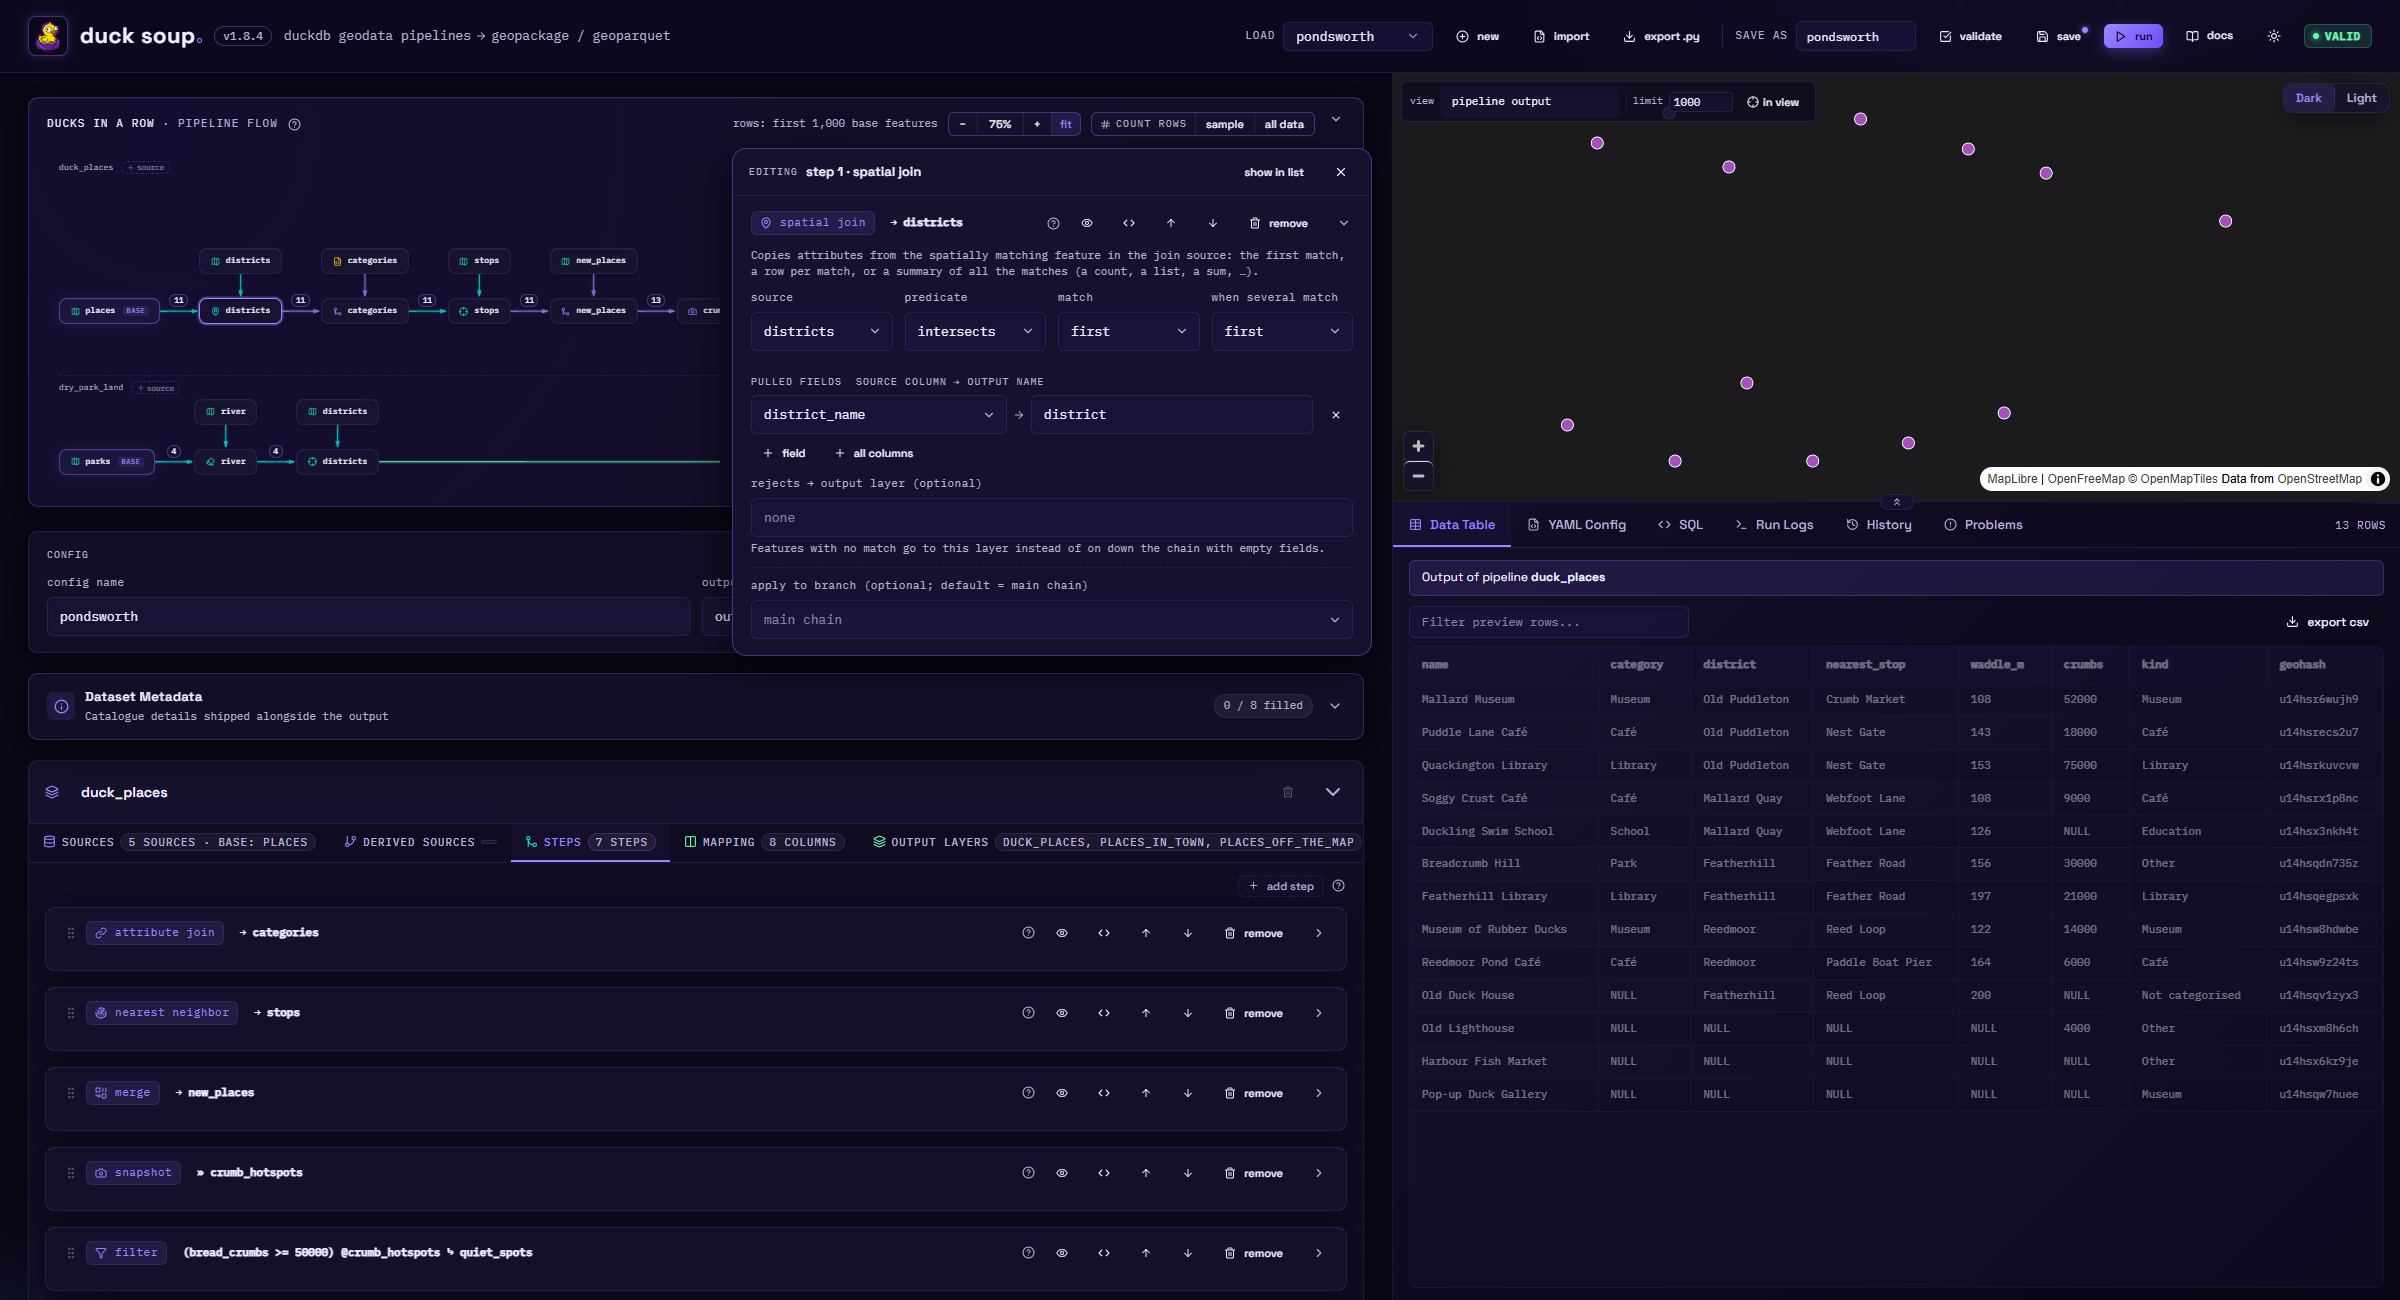
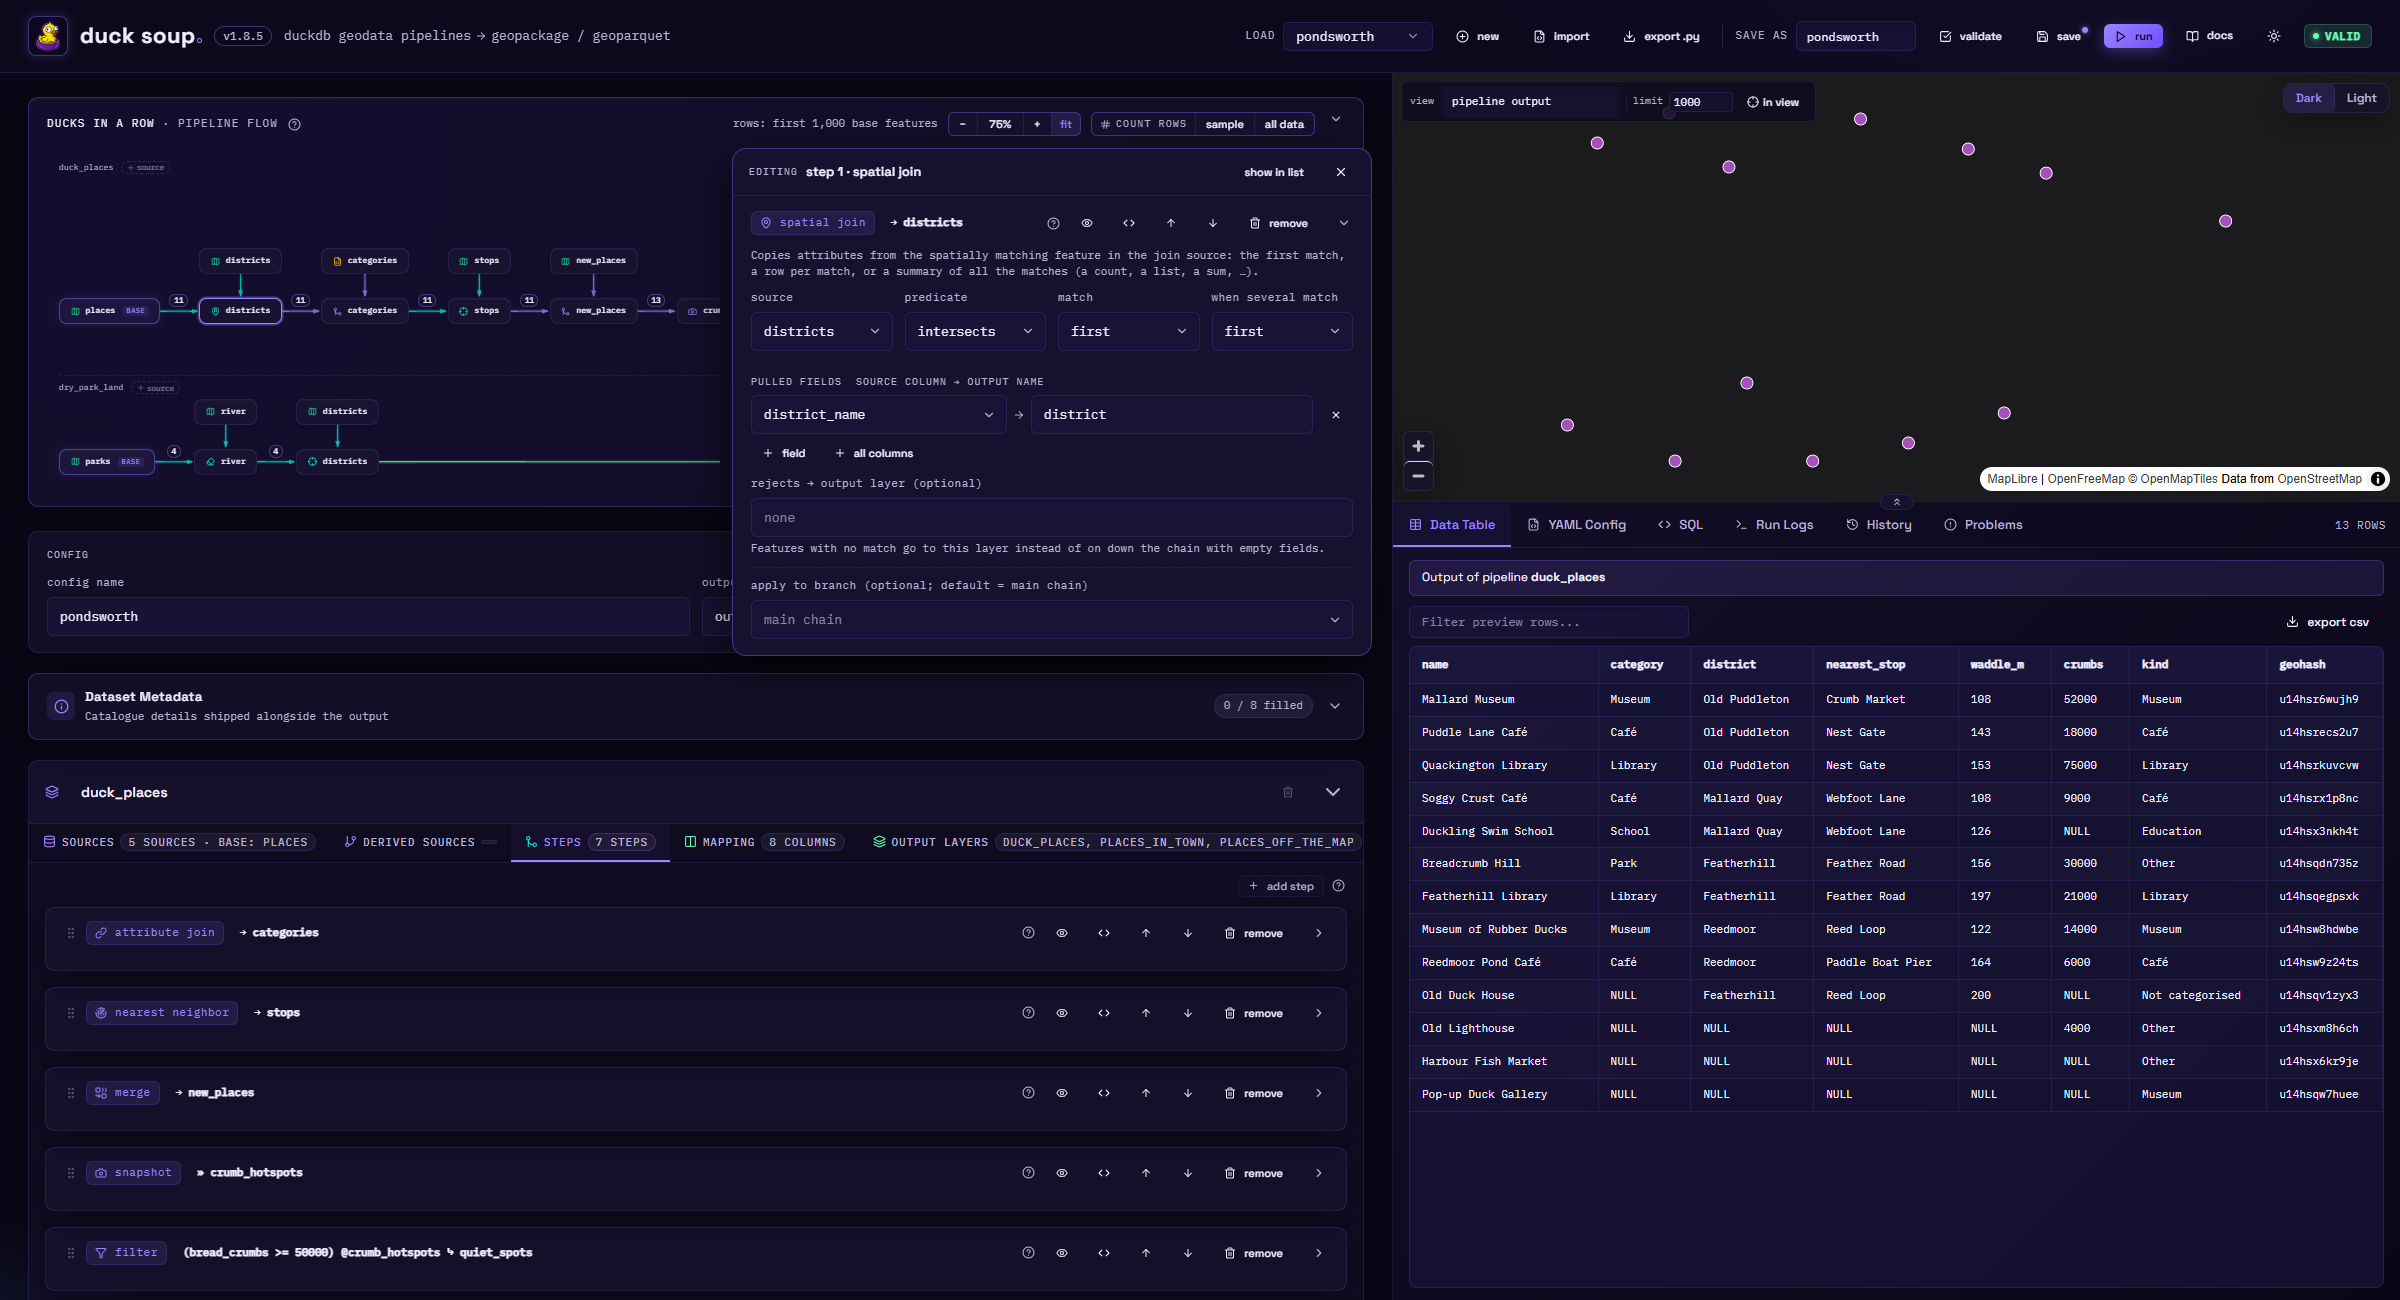
Bump to 1.8.5: release the reuse-downloads option; CI checks the tag's version
The v1.8.4 tag went out on the 1.8.3 commit, so the "reuse downloads"
option (1.8.4) is released as 1.8.5.

A new release-check job in CI fails a v* tag whose version differs from
pyproject.toml's; the Docker and PyPI release jobs wait for it, so such a
tag no longer publishes older code under the new version. The changelog
says so, and the top-bar screenshots show the new version badge.

diff --git a/docs/changelog.md b/docs/changelog.md
@@ -31,13 +31,21 @@ next to the editor's name show the version you're running.
   from downloading its remote files again: a file downloaded less than an hour ago, for the
   previews or by the last run, is read as it is, and the log says so (*Using the download of
   … from 12 min ago*). Off by default, and remembered in the browser. See
-  [Preview & run](editor/preview-and-run.md). (1.8.4)
+  [Preview & run](editor/preview-and-run.md). (1.8.4; released as 1.8.5, since the 1.8.4
+  tag went out on the 1.8.3 commit)
 
 **CLI**
 
 - `duck-soup run --reuse-downloads [MINUTES]` does the same: a remote file downloaded at most
   `MINUTES` ago (60 when left out) is read as it is. Without it, a run downloads its remote
-  files fresh, as before. See [CLI](reference/cli.md#duck-soup-run). (1.8.4)
+  files fresh, as before. See [CLI](reference/cli.md#duck-soup-run). (1.8.4; released as
+  1.8.5)
+
+**Releases**
+
+- A release tag whose version differs from the package's (`v1.8.4` on a commit still at
+  1.8.3) now fails CI before anything is published, instead of releasing the older code
+  under the new tag. (1.8.5)
 
 ## 1.7 — 2026-10-13 to 2026-10-27
 
